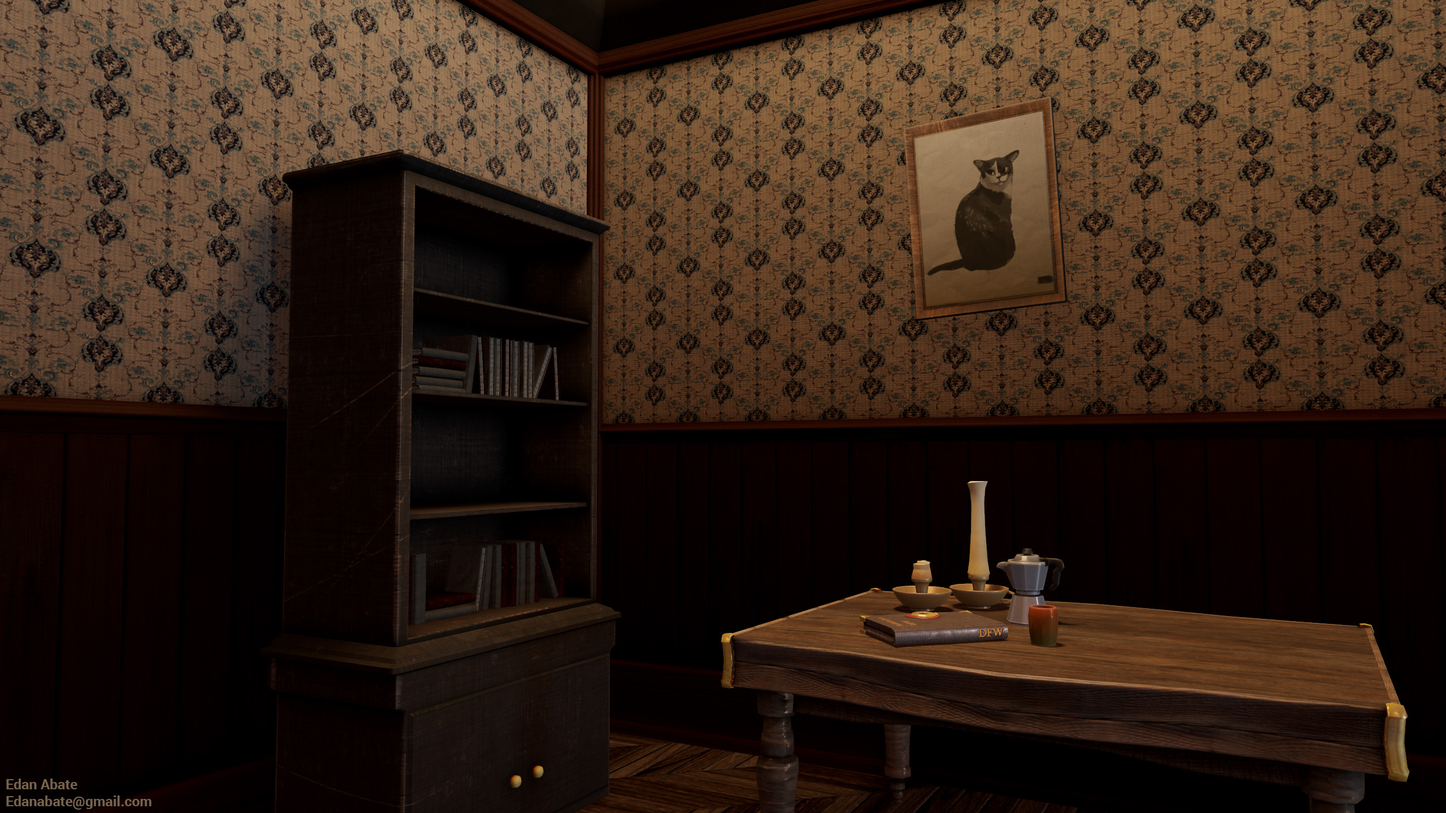
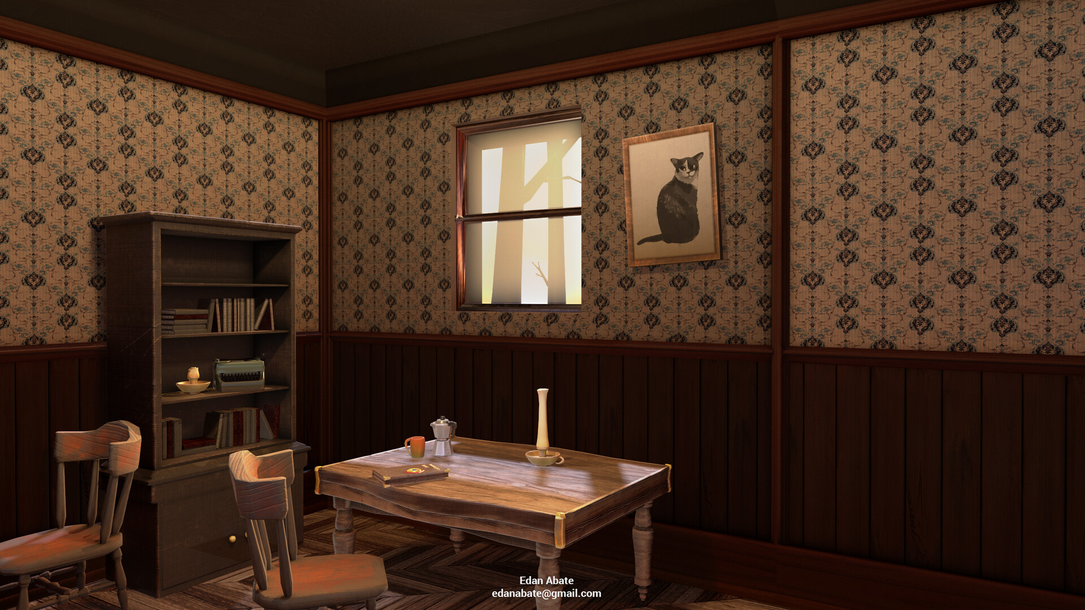
Added Cinema, updated Room shot

diff --git a/index.html b/index.html
@@ -123,6 +123,30 @@
                     <div class="card-tag background-red color-white">ZBrush</div>
                 </div>
             </a>
+            <a class="card-container" href="img/Cinema-1.jpg" target="_blank">
+                <div class="card-header color-black">
+                    Cinema - 1
+                </div>
+                <div class="card-image">
+                    <img src="img/Cinema-1.jpg" />
+                </div>
+                <div class="card-sub color-black">
+                    <div class="card-tag background-red color-white">3Ds Max</div>
+                    <div class="card-tag background-red color-white">Substance Painter</div>
+                </div>
+            </a>
+            <a class="card-container" href="img/Cinema-2.jpg" target="_blank">
+                <div class="card-header color-black">
+                    Cinema - 2
+                </div>
+                <div class="card-image">
+                    <img src="img/Cinema-2.jpg" />
+                </div>
+                <div class="card-sub color-black">
+                    <div class="card-tag background-red color-white">3Ds Max</div>
+                    <div class="card-tag background-red color-white">Substance Painter</div>
+                </div>
+            </a>
             <a class="card-container" href="img/Boat_Front_Beauty.jpg" target="_blank">
                 <div class="card-header color-black">
                     Boat - Front
